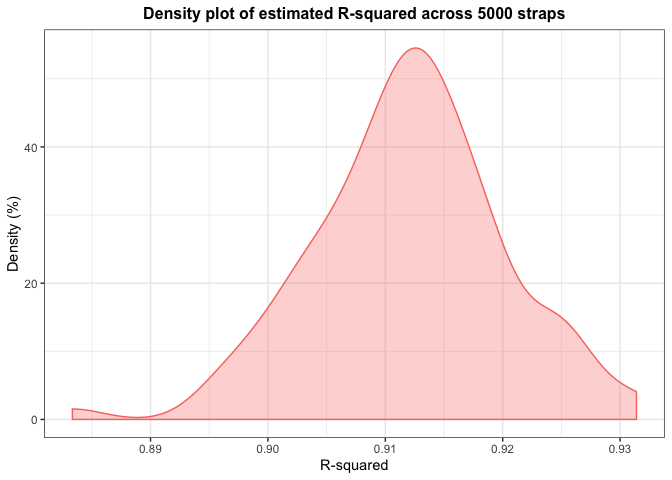
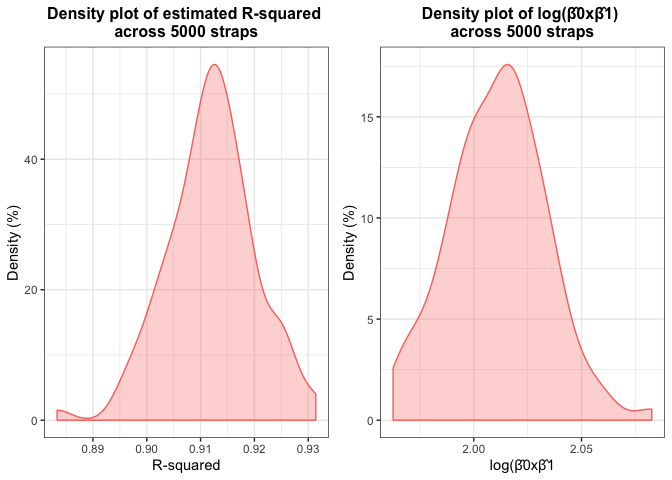
Problem 1 -- compare rmse by violin plots and fix CI in problem 2

diff --git a/p8105_hw6_nqd2000.md b/p8105_hw6_nqd2000.md
@@ -235,7 +235,19 @@ cv_df =
   mutate(rmse_bic = map2_dbl(fit_bic, test, ~rmse(model = .x, data = .y)),
          rmse_main = map2_dbl(fit_main, test, ~rmse(model = .x, data = .y)),
          rmse_int = map2_dbl(fit_int, test, ~rmse(model = .x, data = .y)))
+
+cv_df %>% 
+  select(starts_with("rmse")) %>% 
+  pivot_longer(
+    everything(),
+    names_to = "model", 
+    values_to = "rmse",
+    names_prefix = "rmse_") %>% 
+  mutate(model = fct_inorder(model)) %>% 
+  ggplot(aes(x = model, y = rmse)) + geom_violin()
 ```
+
+![](p8105_hw6_nqd2000_files/figure-gfm/unnamed-chunk-13-1.png)<!-- -->
 
 ### Problem 2
 
@@ -304,12 +316,12 @@ weather_stats =
   unnest(results)
 
 #start to plot R-squared 
-weather_stats %>% 
+r_sqr = weather_stats %>% 
   ggplot(aes(x = r.squared, 
-             fill = "#0000ff", 
-             color = "#0000ff")) +                  #plot R-squared's
+             fill = "lightgreen", 
+             color = "lightgreen")) +                  #plot R-squared's
   geom_density(alpha = 0.3) +
-  labs(title = "Density plot of estimated R-squared across 5000 straps",
+  labs(title = "Density plot of estimated R-squared \nacross 5000 straps",
        y = "Density (%)",
        x = "R-squared") +                           #add graph and axis title
   theme_bw() + 
@@ -318,18 +330,15 @@ weather_stats %>%
                        size=12, 
                        face='bold'), 
         legend.position = "none")                #customize annotations
-```
-
-![](p8105_hw6_nqd2000_files/figure-gfm/unnamed-chunk-16-1.png)<!-- -->
-
-``` r
+         
+  
 #plot density of log(betas' product)
-weather_stats %>% 
+log_est = weather_stats %>% 
   ggplot(aes(x = log_beta_prod, 
-             fill = "green", 
-             color = "green")) +                  #plot density of log_beta_prod
+             fill = "lightpurple", 
+             color = "lightpurple")) +                  #plot density of log_beta_prod
   geom_density(alpha = 0.3) +
-  labs(title = "Density plot of log(β̂0xβ̂1) across 5000 straps",
+  labs(title = "Density plot of log(β̂0xβ̂1) \nacross 5000 straps",
        y = "Density (%)",
        x = "log(β̂0xβ̂1") +                           #add graph and axis title
   theme_bw() + 
@@ -338,23 +347,24 @@ weather_stats %>%
                        size=12, 
                        face='bold'), 
         legend.position = "none")  
+r_sqr + log_est
 ```
 
-![](p8105_hw6_nqd2000_files/figure-gfm/unnamed-chunk-16-2.png)<!-- -->
+![](p8105_hw6_nqd2000_files/figure-gfm/unnamed-chunk-16-1.png)<!-- -->
 
 We can get 95% CI for R-squared and
 log(β̂0xβ̂1)
 
 ``` r
-weather_stats %>% pull(r.squared) %>% as.vector() %>% quantile(c(0.25, 0.975))
+weather_stats %>% pull(r.squared) %>% as.vector() %>% quantile(c(0.025, 0.975))
 ```
 
-    ##       25%     97.5% 
-    ## 0.9073319 0.9266728
+    ##      2.5%     97.5% 
+    ## 0.8963645 0.9266728
 
 ``` r
-weather_stats %>% pull(log_beta_prod) %>% as.vector() %>% quantile(c(0.25, 0.975))
+weather_stats %>% pull(log_beta_prod) %>% as.vector() %>% quantile(c(0.025, 0.975))
 ```
 
-    ##      25%    97.5% 
-    ## 1.997565 2.054918
+    ##     2.5%    97.5% 
+    ## 1.967792 2.054918
